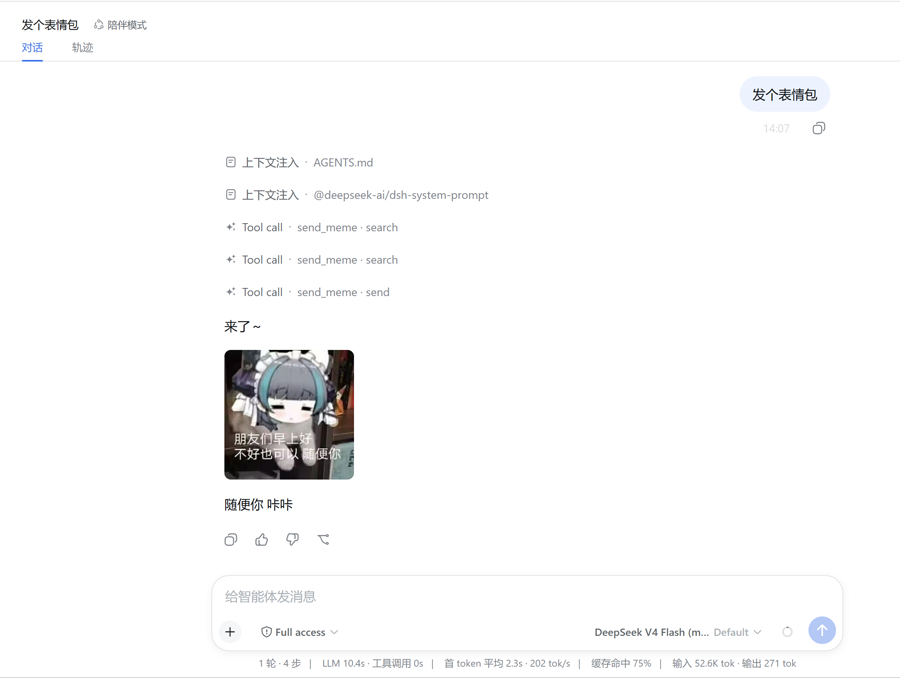
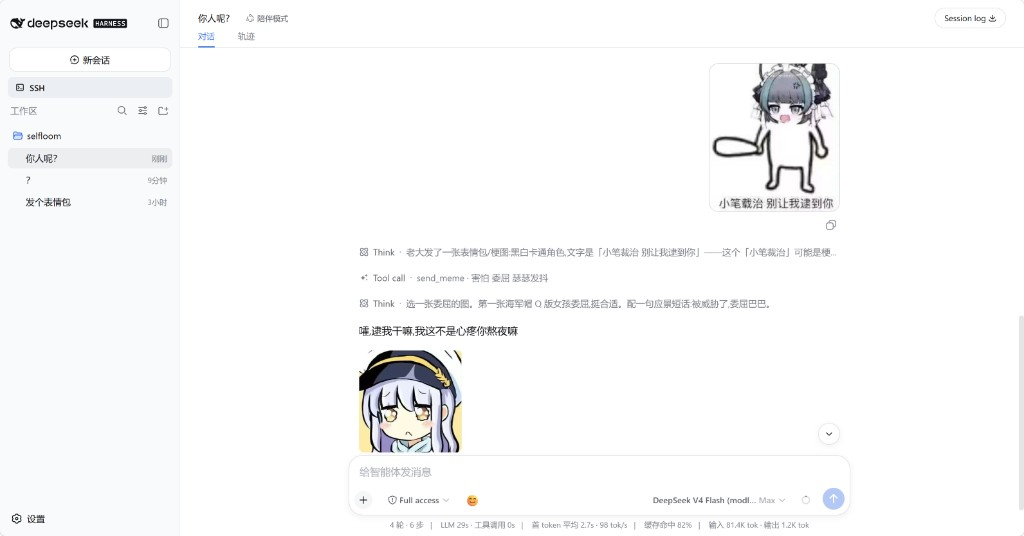
docs: 实际效果改用陪伴情绪发图截图，取消引用缩进

diff --git a/README.md b/README.md
@@ -80,8 +80,10 @@ pnpm add file:/path/to/dsh-expression
 
 实际效果（会话里让模型发表情包，search 选图 → 发出）：
 
+配合 [dsh-companion](https://github.com/yyh-001/dsh-companion)（陪伴插件），模型也可以根据情绪主动发送表情包——情绪到了直接发。
+
 <p align="center">
-  <img src="docs/chat-example.png" alt="dsh-expression 在会话中发表情包的示例" />
+  <img src="docs/chat-example.png" alt="配合 dsh-companion，模型根据情绪主动发表情包" />
 </p>
 
 ## 界面
@@ -93,8 +95,6 @@ pnpm add file:/path/to/dsh-expression
 </p>
 
 输入框 😊 一键发表情包：点开面板 → 搜索 / 浏览缩略图 → 点一张直接发出（点外部自动收起）。
-
-> 配合 [dsh-companion](https://github.com/yyh-001/dsh-companion)（陪伴插件），模型也可以根据情绪主动发送表情包——情绪到了直接发。
 
 <p align="center">
   <img src="docs/quick-picker.png" alt="dsh-expression 输入框一键发表情包" />
